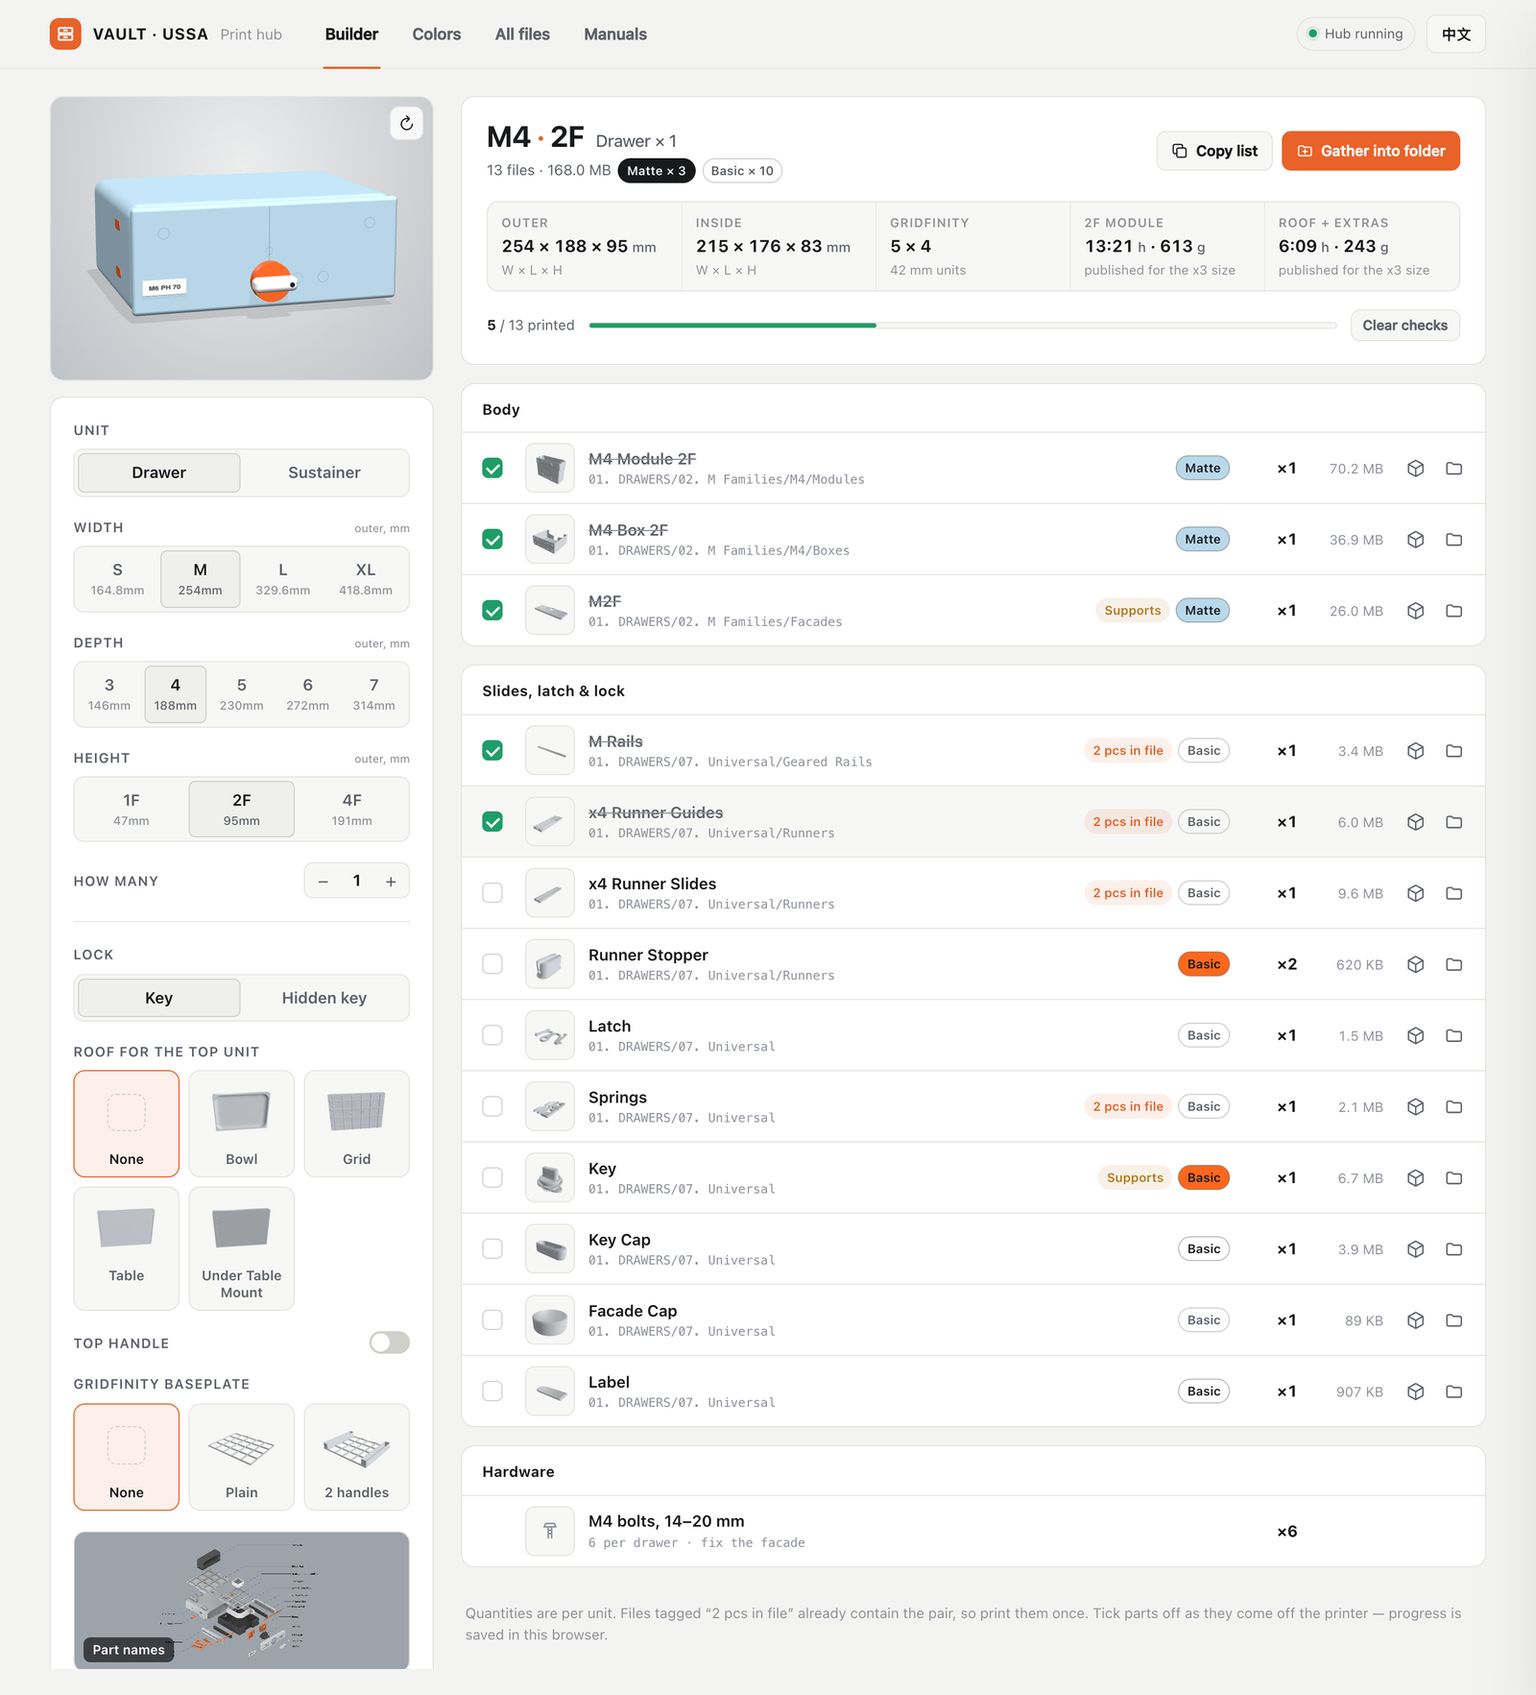
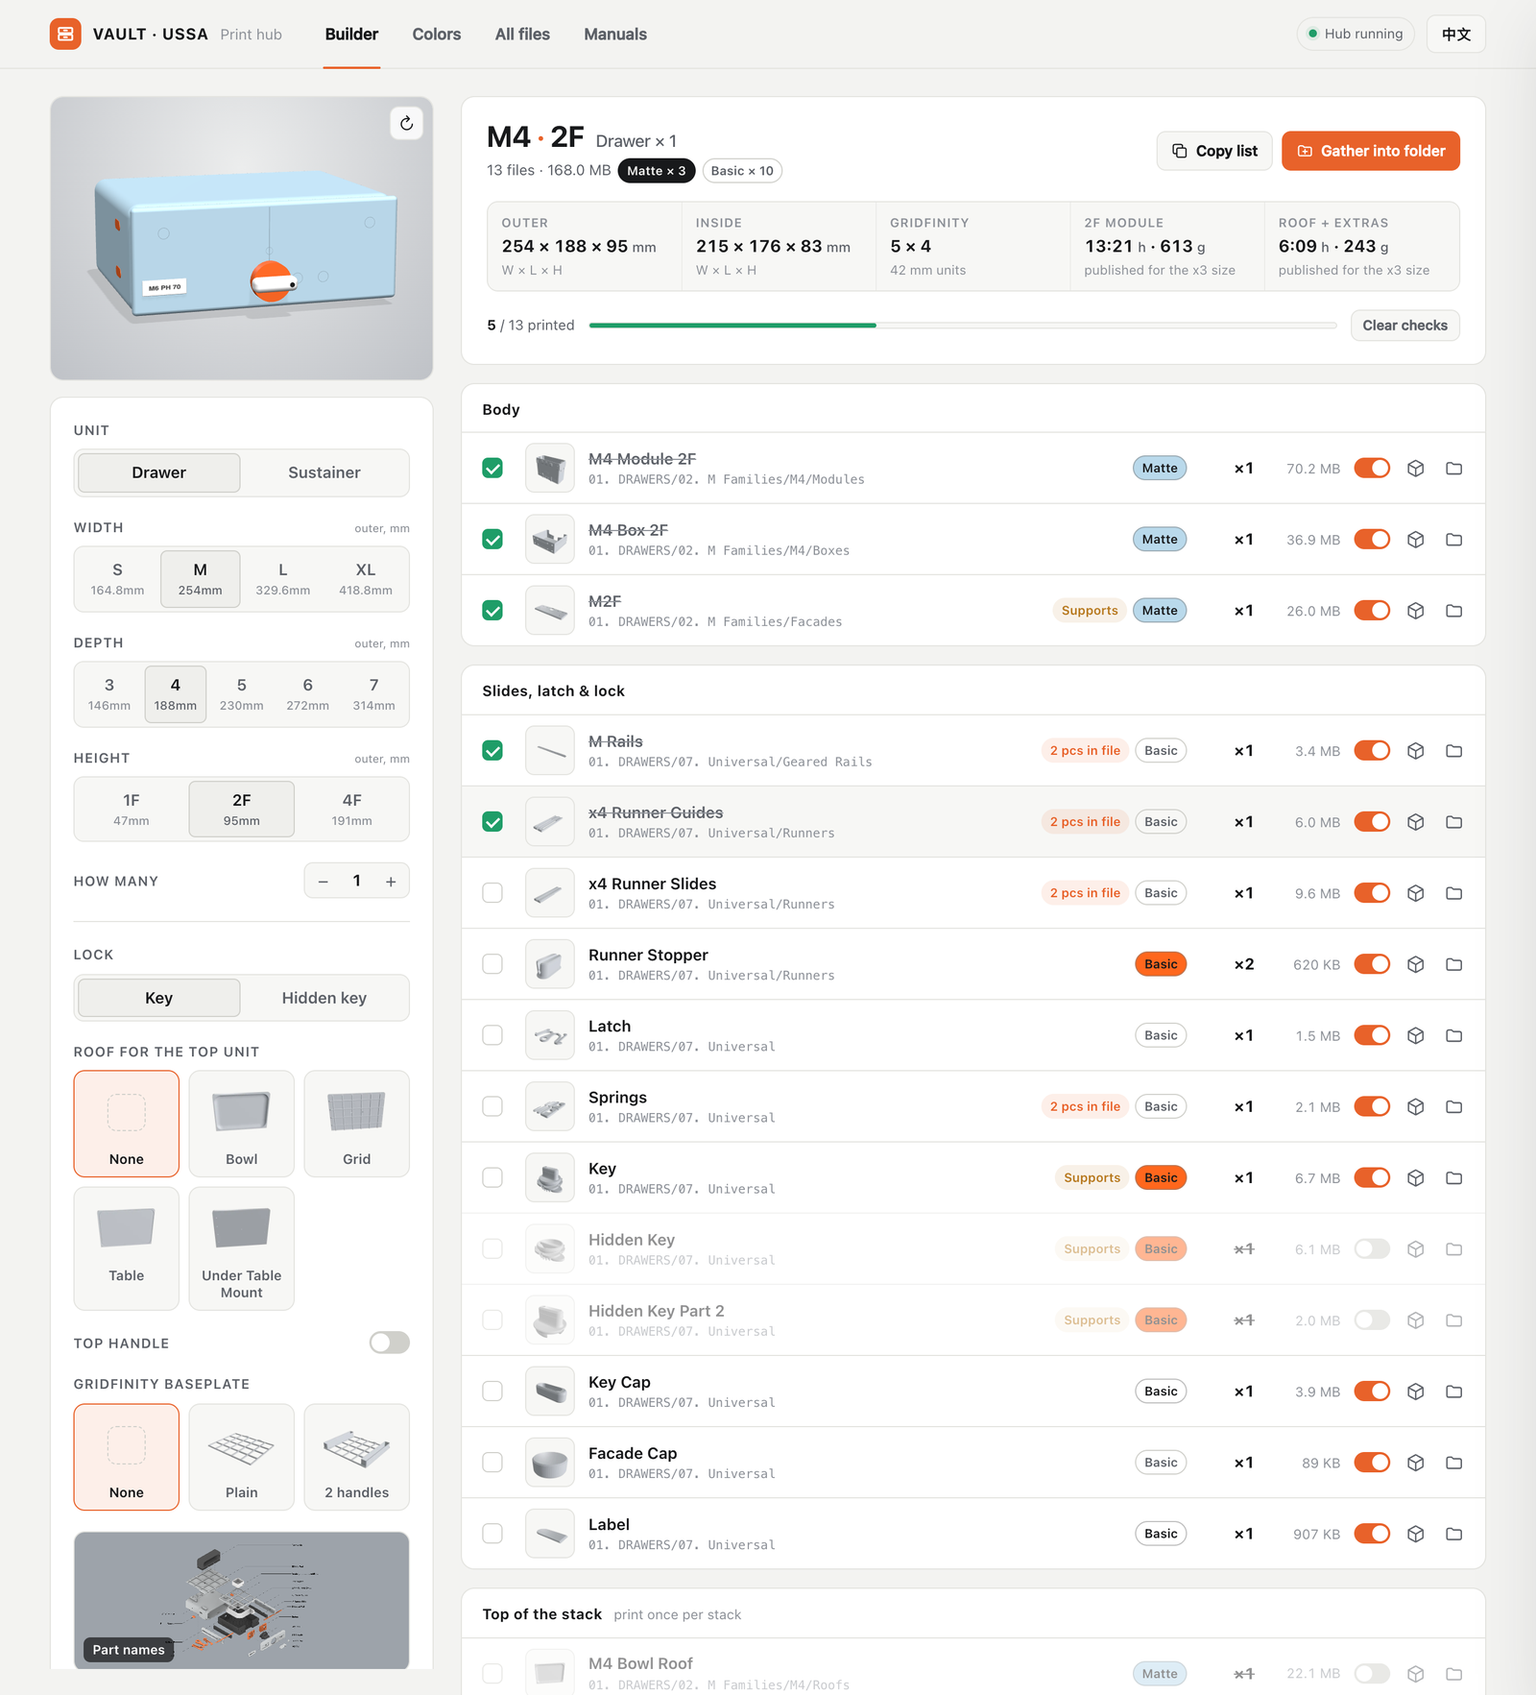
Builder: every part of the unit is listed with an include switch (defaults follow the options); totals, Copy list and Gather follow the switches

diff --git a/index.html b/index.html
@@ -244,6 +244,12 @@ main { max-width: 1320px; margin: 0 auto; padding: 24px; }
 .meta .nm { font-weight: 600; white-space: nowrap; overflow: hidden; text-overflow: ellipsis; }
 .meta .pt { font-family: var(--mono); font-size: 11px; color: var(--faint); white-space: nowrap; overflow: hidden; text-overflow: ellipsis; }
 button.meta:hover .nm { color: var(--accent); }
+.row.off { opacity: .48; }
+.row.off .thumb img { filter: grayscale(1); }
+.row.off .qty { text-decoration: line-through; }
+.switch.inc { align-self: center; margin: 0 4px 0 0; width: 32px; height: 18px; }
+.switch.inc span::after { width: 14px; height: 14px; }
+.switch.inc input:checked + span::after { transform: translateX(14px); }
 .row.done .nm { color: var(--muted); text-decoration: line-through; text-decoration-color: var(--faint); }
 .badges { display: flex; gap: 5px; justify-content: flex-end; flex-wrap: wrap; }
 .badge { font-size: 11px; font-weight: 600; padding: 2px 7px; border-radius: 999px; white-space: nowrap; border: 1px solid transparent; }
@@ -608,7 +614,7 @@ const I18N = {
     preview: 'Preview', reveal: 'Show in folder', openApp: 'Open in slicer', markPrinted: 'Mark as printed',
     pathCopied: 'File path copied. Start the hub from the launcher to jump straight to the folder.',
     needsHub: 'This needs the hub launcher: “Open VAULT Hub (Mac).command” or “(Windows).bat”.',
-    supports: 'Supports', matte: 'Matte', basic: 'Basic', tpu: 'TPU', matteTip: 'Print in matte filament', basicTip: 'Print in basic filament', tpuTip: 'Print in TPU', pcs: n => `${n} pcs in file`, asNeeded: 'as needed', missing: 'Not found in folder',
+    incTip: 'Include this part in the list', incNote: 'Every part of this unit is listed. Use the switch on each row to leave a part out; parts you leave out are greyed and skipped by the totals, Copy list and Gather.', supports: 'Supports', matte: 'Matte', basic: 'Basic', tpu: 'TPU', matteTip: 'Print in matte filament', basicTip: 'Print in basic filament', tpuTip: 'Print in TPU', pcs: n => `${n} pcs in file`, asNeeded: 'as needed', missing: 'Not found in folder',
     note: 'Quantities are per unit. Files tagged “2 pcs in file” already contain the pair, so print them once. Tick parts off as they come off the printer — progress is saved in this browser.',
     search: 'Search by name or folder…', all: 'All', drawers: 'Drawers', sustainers: 'Sustainers', mods: 'Modifications', docs: 'Images & PDFs',
     results: n => `${n} files`, noResults: 'No files match that search.',
@@ -648,7 +654,7 @@ const I18N = {
     preview: '预览', reveal: '在文件夹中显示', openApp: '用切片软件打开', markPrinted: '标记为已打印',
     pathCopied: '已复制文件路径。用启动器打开控制台即可直接跳转到文件夹。',
     needsHub: '此功能需要通过启动器打开：“Open VAULT Hub (Mac).command”或“(Windows).bat”。',
-    supports: '需支撑', matte: '哑光', basic: '普通', tpu: 'TPU', matteTip: '建议使用哑光耗材', basicTip: '建议使用普通耗材', tpuTip: '建议使用 TPU 耗材', pcs: n => `文件含 ${n} 件`, asNeeded: '按需', missing: '文件夹中未找到',
+    incTip: '把这个零件计入清单', incNote: '这个型号的所有零件都列在这里。用每行的开关决定要不要;关掉的零件会变灰,不计入统计、"复制清单"和"汇总到文件夹"。', supports: '需支撑', matte: '哑光', basic: '普通', tpu: 'TPU', matteTip: '建议使用哑光耗材', basicTip: '建议使用普通耗材', tpuTip: '建议使用 TPU 耗材', pcs: n => `文件含 ${n} 件`, asNeeded: '按需', missing: '文件夹中未找到',
     note: '数量按单个计算。标有“文件含 2 件”的文件已包含一对零件，打印一次即可。打印完成后勾选——进度会保存在本浏览器中。',
     search: '按文件名或文件夹搜索…', all: '全部', drawers: '抽屉', sustainers: '翻盖盒', mods: '改装件', docs: '图片与文档',
     results: n => `${n} 个文件`, noResults: '没有匹配的文件。',
@@ -712,7 +718,7 @@ const SPEC = {
 };
 const mm = v => (Math.round(v * 10) / 10).toString();
 const state = Object.assign(
-  { type: 'drawer', w: 'S', d: 3, h: '1F', count: 1, lock: 'key', roof: '', handle: false, base: '', variant: '', lid: 'whole', locks: 1, dividers: false, sbase: false },
+  { type: 'drawer', w: 'S', d: 3, h: '1F', count: 1, lock: 'key', roof: '', handle: false, base: '', variant: '', lid: 'whole', locks: 1, dividers: false, sbase: false, inc: {} },
   store.get('state', {}),
 );
 
@@ -784,6 +790,12 @@ function sustainerVariants() {
 
 /* ---------- Part lists ---------- */
 const part = (f, qty = 1, extra = {}) => f ? { f, qty, ...extra } : { missing: extra.expect || '?', qty };
+// Every part of the unit is in the list; each file row has an include switch. `on` is its default (what the option pickers select);
+// a switch you flip is remembered per file in state.inc and wins over the default.
+const off = it => it && it.f ? { ...it, on: false } : it;
+const choiceParts = (files, selected, extra = {}) => files.map(f => { const it = part(f, 1, extra); return selected ? it : off(it); });
+const isOn = it => !it.f || (state.inc?.[it.f.p] ?? it.on !== false);
+const activeItems = sections => sections.flatMap(s => s.items.map(i => (s.raw ? { ...i, raw: true } : i))).filter(isOn);
 
 function drawerSections() {
   const { w, d, h, count } = state;
@@ -795,9 +807,11 @@ function drawerSections() {
     part(first(`${D_FAM(w)}(Facades/${w}${h} .*|${w} Facade ${h})\\.stl$`), 1, { expect: `${w}${h} Facade` }),
   ];
   const run = w === 'XL' ? `XL${d}` : `x${d}`;
-  const lockFiles = state.lock === 'hidden'
-    ? [part(first(`${D_UNI}Hidden Key \\(`), 1, { expect: 'Hidden Key' }), part(first(`${D_UNI}Hidden Key Part 2`), 1, { expect: 'Hidden Key Part 2' })]
-    : [part(first(`${D_UNI}Key \\(`), 1, { expect: 'Key' })];
+  const keyOn = state.lock !== 'hidden';
+  const lockFiles = [
+    keyOn ? part(first(`${D_UNI}Key \\(`), 1, { expect: 'Key' }) : off(part(first(`${D_UNI}Key \\(`), 1, { expect: 'Key' })),
+    ...[['Hidden Key \\(', 'Hidden Key'], ['Hidden Key Part 2', 'Hidden Key Part 2']].map(([re, name]) => { const it = part(first(`${D_UNI}${re}`), 1, { expect: name }); return keyOn ? off(it) : it; }),
+  ];
   const mech = [
     part(first(`${D_UNI}Geared Rails/${w} Rails\\.stl$`), 1, { pcs: 2, expect: `${w} Rails` }),
     part(first(`${D_UNI}Runners/${run} Runner Guides\\.stl$`), 1, { pcs: 2, expect: `${run} Runner Guides` }),
@@ -811,17 +825,22 @@ function drawerSections() {
     part(first(`${D_UNI}Label\\.stl$`), 1, { expect: 'Label' }),
   ];
   const top = [];
-  const roof = drawerRoofs().find(r => r.id === state.roof);
-  if (roof) {
-    top.push(...roof.files.map(f => part(f, 1, { once: true })));
-    if (/Heawyweight/i.test(roof.id)) {
-      top.push(part(first(`${D_UNI}Heawyweight Roof Handle`), 1, { once: true }), part(first(`${D_UNI}Heawyweight Roof Insert`), 1, { once: true }));
+  for (const r of drawerRoofs()) {
+    const sel = r.id === state.roof;
+    top.push(...choiceParts(r.files, sel, { once: true }));
+    if (/Heawyweight/i.test(r.id)) {
+      top.push(...choiceParts([first(`${D_UNI}Heawyweight Roof Handle`), first(`${D_UNI}Heawyweight Roof Insert`)].filter(Boolean), sel, { once: true }));
     }
   }
-  if (state.handle) top.push(part(first(`${D_UNI}Top Handle`), 1, { once: true, expect: 'Top Handle' }));
+  top.push(state.handle ? part(first(`${D_UNI}Top Handle`), 1, { once: true, expect: 'Top Handle' }) : off(part(first(`${D_UNI}Top Handle`), 1, { once: true, expect: 'Top Handle' })));
   const opt = [];
-  const base = drawerBaseplates().find(b => b.id === state.base);
-  if (base) opt.push(...base.files.map(f => part(f)));
+  for (const b of drawerBaseplates()) opt.push(...choiceParts(b.files, b.id === state.base));
+  // Grid divider that spans the full width of this box (named 10-S, 18-M, 26-L, 32-XL); the loose border parts are in the pack folder.
+  const gdH = { '1F': '34.5MM TALL', '2F': '82.5MM TALL' }[h];
+  const gdName = { S: '10-S', M: '18-M', L: '26-L', XL: '32-XL' }[w];
+  if (gdH) { const gd = first(`${D_UNI}Grid Dividers/${gdH}[^/]*/${gdName}[^/]*\\.stl$`); if (gd) opt.push(off(part(gd, 1, { expect: `${gdName} grid divider` }))); }
+  const ms = first(`${D_UNI}Manual Supports/x${d}\\.stl$`);
+  if (ms) opt.push(off(part(ms, 1, { expect: `x${d} manual supports` })));
   const bolts = h === '1F' ? 4 : 6;
   return [
     { title: t('secBody'), items: body },
@@ -851,9 +870,9 @@ function sustainerSections() {
   const lids = sustainerLids();
   const lid = lids.find(l => l.id === state.lid) || lids[0];
   const body = [
-    part(mod?.file, 1, { expect: `${w}${d} ${h} Module` }),
+    ...(variants.length ? variants.map(v => (v === mod ? part(v.file, 1, { expect: `${w}${d} ${h} Module` }) : off(part(v.file, 1)))) : [part(null, 1, { expect: `${w}${d} ${h} Module` })]),
     part(first(`${S_FAM(w)}(Facades/)?${w}${h}'? Facade\\.stl$`), 1, { expect: `${w}${h} Facade` }),
-    ...(lid ? lid.files.map(f => part(f)) : [part(null, 1, { expect: `${w}${d} Roof` })]),
+    ...(lids.length ? lids.flatMap(l => choiceParts(l.files, l === lid)) : [part(null, 1, { expect: `${w}${d} Roof` })]),
   ];
   const hingeSize = sm ? 'S-M' : (h === '1F' ? 'L-XL' : 'L');
   const hinge = [
@@ -862,19 +881,22 @@ function sustainerSections() {
     part(first(`${S_UNI}Rods/${sm ? 'S-M' : 'L-XL'} Rods\\.stl$`), 1, { pcs: 2, expect: 'Rods' }),
     part(first(`${S_UNI}Label for Sustainers`), 1, { expect: 'Label for Sustainers' }),
   ];
-  const lock = state.locks ? [
-    part(first(`${S_UNI}Locks/LOCK HOLDER`), state.locks),
-    part(first(`${S_UNI}Locks/LOCK INNER PART`), state.locks),
-    part(first(`${S_UNI}Locks/LOCK OUTER PART ${h === '1F' ? '1F' : '2-4F'}`), state.locks),
-    part(first(`${S_UNI}Locks/1 SET OF PINS`), state.locks, { pcs: 4 }),
-  ] : [];
-  const opt = [];
-  if (state.dividers) opt.push(...sustainerDividers().map(f => part(f, null)));
-  if (state.sbase) opt.push(...sustainerBaseplates().map(f => part(f)));
+  const nLocks = state.locks || 1;
+  const lockOn = state.locks > 0;
+  const lock = [
+    part(first(`${S_UNI}Locks/LOCK HOLDER`), nLocks),
+    part(first(`${S_UNI}Locks/LOCK INNER PART`), nLocks),
+    part(first(`${S_UNI}Locks/LOCK OUTER PART ${h === '1F' ? '1F' : '2-4F'}`), nLocks),
+    part(first(`${S_UNI}Locks/1 SET OF PINS`), nLocks, { pcs: 4 }),
+  ].map(it => (lockOn ? it : off(it)));
+  const opt = [
+    ...sustainerDividers().map(f => { const it = part(f, null); return state.dividers ? it : off(it); }),
+    ...sustainerBaseplates().map(f => { const it = part(f); return state.sbase ? it : off(it); }),
+  ];
   return [
     { title: t('secBody'), items: body },
     { title: t('secHinge'), items: hinge },
-    lock.length && { title: t('secLock'), sub: t('secLockNote', state.locks), items: lock, raw: true },
+    lock.length && { title: t('secLock'), sub: t('secLockNote', nLocks), items: lock, raw: true },
     opt.length && { title: t('secOpt'), items: opt },
     { title: t('secHw'), items: [{ hw: t('bolts'), sub: t('boltsSus'), qty: null }] },
   ].filter(Boolean);
@@ -947,14 +969,16 @@ function fileRow(f, item = null) {
     else qty = `<span class="qty">×${item.once || item.raw ? item.qty : item.qty * state.count}</span>`;
   }
   const canCheck = isModel(f);
-  return `<li class="row${done ? ' done' : ''}" data-path="${esc(f.p)}">
-    ${canCheck ? `<label class="ck"><input type="checkbox" data-act="check"${done ? ' checked' : ''} aria-label="${esc(t('markPrinted'))}"><span></span></label>` : '<span></span>'}
+  const on = !item || isOn(item);
+  return `<li class="row${done && on ? ' done' : ''}${on ? '' : ' off'}" data-path="${esc(f.p)}">
+    ${canCheck ? `<label class="ck"><input type="checkbox" data-act="check"${done ? ' checked' : ''}${on ? '' : ' disabled'} aria-label="${esc(t('markPrinted'))}"><span></span></label>` : '<span></span>'}
     ${thumb(f, isModel(f) ? ICON.cube : ICON.eye)}
     <button class="meta" data-act="open" title="${esc(f.p)}"><span class="nm">${esc(prettyName(f.name))}</span><span class="pt">${esc(f.dir)}</span>${matBadge(material(f), ' mat-sm', f)}</button>
     <span class="badges">${badges(f, { ...item, mat: true })}</span>
     ${item ? qty : ''}
     <span class="sz">${fmtSize(f.s)}</span>
     <span class="acts-row">
+      ${item && isModel(f) ? `<label class="switch inc" title="${esc(t('incTip'))}"><input type="checkbox" data-act="inc"${on ? ' checked' : ''} aria-label="${esc(t('incTip'))}"><span></span></label>` : ''}
       <button class="ib" data-act="open" title="${esc(t('preview'))}">${isModel(f) ? ICON.cube : ICON.eye}</button>
       <button class="ib" data-act="reveal" title="${esc(t('reveal'))}" aria-label="${esc(t('reveal'))}">${ICON.folder}</button>
     </span>
@@ -1035,7 +1059,7 @@ function specGrid() {
 
 function renderResults() {
   const sections = state.type === 'drawer' ? drawerSections() : sustainerSections();
-  const files = sections.flatMap(s => s.items).filter(i => i.f);
+  const files = activeItems(sections).filter(i => i.f);
   const unique = [...new Map(files.map(i => [i.f.p, i.f])).values()];
   const done = unique.filter(f => printed.has(f.p)).length;
   const bytes = unique.reduce((a, f) => a + f.s, 0);
@@ -1060,6 +1084,7 @@ function renderResults() {
       <ul class="list">${s.items.map(i => itemRow(s.raw ? { ...i, raw: true } : i)).join('')}</ul>
     </section>`).join('')}
     </div>
+    <p class="note">${esc(t('incNote'))}</p>
     <p class="note">${esc(t('note'))}</p>`;
   $('#results').dataset.files = JSON.stringify(unique.map(f => f.p));
 }
@@ -1077,15 +1102,17 @@ $('#config').addEventListener('click', e => {
   if (!b || b.disabled) return;
   if (b.dataset.set) {
     const k = b.dataset.set, v = b.dataset.val;
+    if (['lock', 'roof', 'base', 'variant', 'lid', 'dividers', 'sbase'].includes(k)) state.inc = {};   // the defaults follow the option you just picked
     state[k] = k === 'd' ? Number(v) : v === 'true' ? true : v === 'false' ? false : v;
   } else {
     state[b.dataset.step] += Number(b.dataset.val);
+    if (b.dataset.step === 'locks') state.inc = {};
   }
   renderBuilder();
 });
 $('#config').addEventListener('change', e => {
   const k = e.target.dataset.toggle;
-  if (k) { state[k] = e.target.checked; renderBuilder(); }
+  if (k) { state[k] = e.target.checked; state.inc = {}; renderBuilder(); }
 });
 
 /* ---------- All files ---------- */
@@ -1178,6 +1205,12 @@ async function copyText(text) {
   }
 }
 document.addEventListener('change', e => {
+  if (e.target.dataset.act === 'inc') {
+    (state.inc ||= {})[e.target.closest('[data-path]').dataset.path] = e.target.checked;
+    store.set('state', state);
+    renderResults();
+    return;
+  }
   if (e.target.dataset.act !== 'check') return;
   const row = e.target.closest('[data-path]');
   const p = row.dataset.path;
@@ -1205,8 +1238,10 @@ document.addEventListener('click', async e => {
     const sections = state.type === 'drawer' ? drawerSections() : sustainerSections();
     const lines = [`${state.w}${state.d} ${state.h} ${state.type === 'drawer' ? t('drawer') : t('sustainer')} × ${state.count}`];
     for (const s of sections) {
+      const mine = s.items.filter(isOn);
+      if (!mine.length) continue;
       lines.push('', `## ${s.title}`);
-      for (const i of s.items) {
+      for (const i of mine) {
         const q = i.qty == null ? t('asNeeded') : '×' + (i.once || i.raw || s.raw ? i.qty : i.qty * state.count);
         lines.push(`[${i.f && printed.has(i.f.p) ? 'x' : ' '}] ${q}  ${i.f ? i.f.p : i.hw || i.missing}${i.f && material(i.f) ? `  (${t(material(i.f))})` : ''}`);
       }

diff --git a/README.md b/README.md
@@ -36,11 +36,16 @@ Pick a unit and the hub lists every file you need, so nothing gets missed.
 - **Size** – width S / M / L / XL, depth 3–7, height 1F / 2F / 4F, each with its outer size in mm, plus a quantity.
 - **Options** – lock style, roof for the top unit (none / bowl / grid / table / under-table mount), top handle, dividers, Gridfinity baseplate, locks per unit.
 - **Spec strip** – outer and inside dimensions, Gridfinity grid size, and estimated print time and filament weight (published figures, where available).
-- **Parts list** – grouped into Body, Slides / latch / lock, Hinges & rods, Lock set and Hardware, with a thumbnail, quantity and file size for each part.
+- **Every part is in the list, each with an include switch** – the list shows all the files the unit could use (both key types, top handle, every roof, dividers, Gridfinity baseplates, manual supports, the full lock set, hinges, rods and so on). Parts your options select start switched on, the rest start off; flip any switch to leave a part out or add it. Parts that are off are greyed and skipped by the file count, tag totals, progress bar, *Copy list* and *Gather*. Your switches are remembered; changing an option (roof, handle, lock, …) resets them to that option's defaults.
+- **Parts list** – grouped into Body, Slides / latch / lock, Top of the stack, Optional, Hinges & rods, Lock set and Hardware, with a thumbnail, quantity and file size for each part.
 - **Filament finish** – every part is tagged **Matte**, **Basic** or **TPU** (the suggested filament), and the Builder header counts how many of each you need so you can plan filament swaps. The tag is also shown in *All files* and included in *Copy list*, and the tag is filled with the color you picked for that part in the Colors tab (parts without a color role, such as runners, keep the plain tag). Every STL has a recommendation.
 - **Smart tags** – "2 pcs in file" marks files that already contain a pair (print once); "Supports" marks files that need support material.
 - **Hardware counts** – bolts and other non-printed parts, with quantities.
 - **Part names** – the official exploded diagram, one click away.
+
+![Parts with include switches: greyed rows are switched off](docs/parts-switches.png)
+
+*Switches on the right: the hidden key, roofs, handle and baseplates are listed but off until you need them.*
 
 ![Builder showing an M4 2F sustainer](docs/builder-sustainer.png)
 
